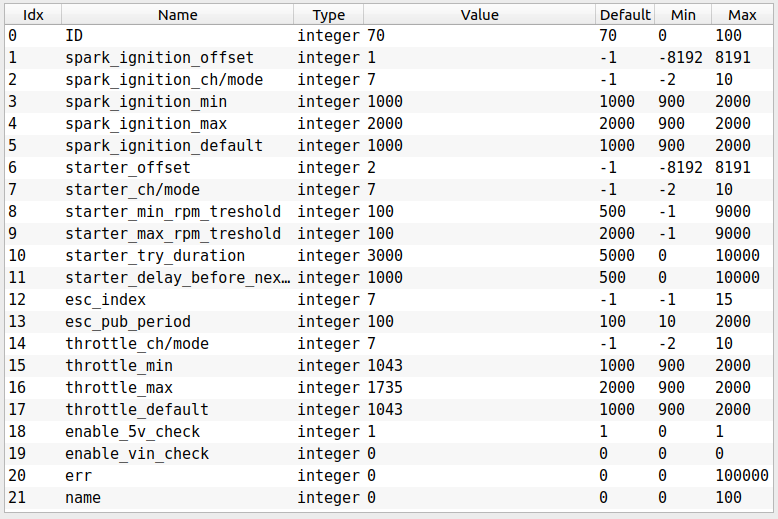
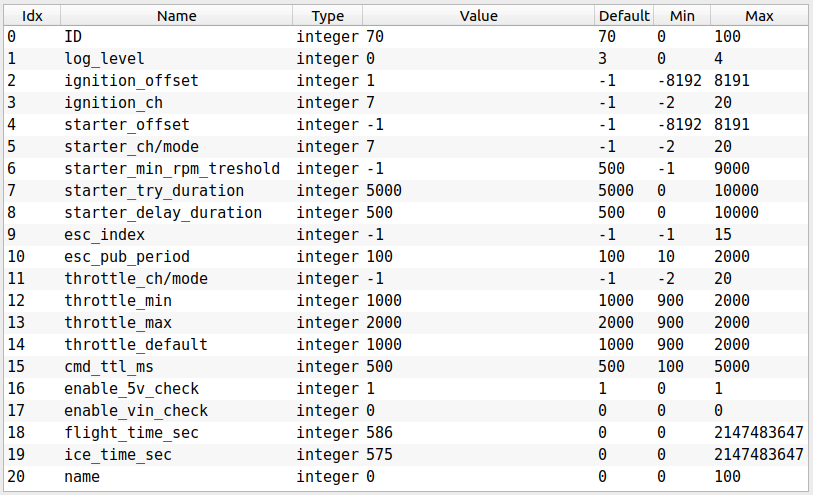
ice: update doc

Changed region(s): [[0.0, 0.0, 1.0, 1.0]]

diff --git a/doc/ice/README.md b/doc/ice/README.md
@@ -13,21 +13,23 @@ Based on input command [RawCommand](https://dronecan.github.io/Specification/7._
   - [3. Wire](#3-wire)
   - [4. Main function description](#4-main-function-description)
     - [4.1. Gas throttle](#41-gas-throttle)
-    - [4.2. Spark Ignition](#42-spark-ignition)
-    - [4.3. Starter](#43-starter)
-    - [4.4. RPM measurement](#44-rpm-measurement)
-    - [4.5. Kill switch](#45-kill-switch)
+    - [4.2. Air throttle](#42-air-throttle)
+    - [4.3. Spark Ignition](#43-spark-ignition)
+    - [4.4. Starter](#44-starter)
+    - [4.5. RPM measurement](#45-rpm-measurement)
+    - [4.6. TTL](#46-ttl)
   - [5. Auxiliary functions description](#5-auxiliary-function-description)
     - [5.1. Circuit status](#51-circuit-status)
     - [5.2. Node info](#52-node-info)
     - [5.3. Log messages](#53-log-messages)
     - [5.4. Watchdog](#54-watchdog)
+    - [5.5. Stats recorder](#55-stats-recorder)
   - [6. Parameters](#6-parameters)
     - [6.1. Common parameters](#61-common-parameters)
     - [6.2. Spark ignition](#62-spark-ignition)
     - [6.3. Starter](#63-starter)
     - [6.4. ESC status](#64-esc-status)
-    - [6.5. Throttle](#65-throttle)
+    - [6.5. Gas throttle](#65-gas-throttle)
     - [6.6. Circuit status](#66-circuit-status)
   - [7. Led indication](#7-led-indication)
   - [8. Debugging on a table](#8-debugging-on-a-table)
@@ -74,8 +76,10 @@ It also has following board-specific connectors:
 | 5 | Fuel tank sensor based on MS4525DO | i2c             |
 | 6 | Starter          | GPIO output pin |
 | 7 | Spark ignition   | GPIO output pin |
-| 8 | Throttle (pin 3) | PWM with frequency 50 Hz and duration from 900 to 2000   |
-| 8 | RPM sensor (pin 6) | Input capture |
+| 8 | Gas throttle | PWM with frequency 50 Hz and duration from 900 to 2000   |
+| 9 | Air throttle | PWM with frequency 50 Hz and duration from 900 to 2000   |
+| 10 | RPM sensor | Input capture |
+| 11 | Temperature sensor | One-wire |
 
 ## 4. Main function description
 
@@ -87,23 +91,35 @@ Internally, the node has a safety mechanism called kill-switch. If the setpoint 
 
 ### 4.1. Gas throttle
 
-Gas throttle is responsible for thrust created by an engine. The output PWM is linearly controlled by RawCommand. The lower and higher borders of duration are defined in corresponding parameters. Check correponded parameters in the section [6.5. Throttle](#65-throttle).
+Gas throttle is responsible for thrust created by an engine. The output PWM is linearly controlled by RawCommand. The lower and higher borders of duration are defined in corresponding parameters. Check correponded parameters in the section [6.5. Gas throttle](#65-gas-throttle).
 
-### 4.2. Spark Ignition
+### 4.2. Air throttle
+
+The main function of the air throttle is to supply and regulate the air flow necessary for the formation of the air-fuel mixture.
+
+Typically, we want a bit less air during the starting the internal combustion engine. It is more fuel costly, but the motor may start easilier. Let's call it the `initial` throttle position.
+
+When the motor is already working, we want to maintain a constant optimal fuel to air ratio. In simpliest case it might be just another throttle value called `goal`.
+
+The idea of the suggested air throttle algorithm is to linearly open the air throttle from the `initial` to the `goal` state for a specific period of time and keep it until the new starter iteration starts.
+
+Although the default `goal` state is specified in parameters, an operator may speficied the actual `goal` value in real time during preflight checks using `ArrayCommand` message with the index specifed in parameters.
+
+### 4.3. Spark Ignition
 
 Spark Ignition allows to enable or disable engine. It is controlled by a simple GPIO output pin that has 2 states. If the value of RawCommand of the corresponding channel is higher than some offset, it will be enabled. Otherwise it will be disabled. Check correponded parameters in the section [6.2. Spark ignition](#62-spark-ignition).
 
-### 4.3. Starter
+### 4.4. Starter
 
 Starter allows to automatically run an engine. It is implemented as GPIO output pin, so it has 2 states. If the input channel value is greater than the offset, it will perform an attempt to run an engine with a duration up to a certain time. If an attempt is unsuccessful, it will turn off for a certain time (to signalize that it's unsuccessful), and then try again. If the median speed for last second is greater than some certain value it will stop attempts. Durations and offsets can be set up in parameters. Check correponded parameters in the section [6.3. Starter](#63-starter)
 
-### 4.4. RPM measurement
+### 4.5. RPM measurement
 
 This sensor is based on hall-sensor. It counts the number of impulses for the last short period of time, filtrate the data, fills the [uavcan.equipment.ice.reciprocating.Status](https://dronecan.github.io/Specification/7._List_of_standard_data_types/#status-4) message and sends it.
 
-### 4.5. Kill switch
+### 4.6. TTL
 
-For the safety reasons, if there is no RawCommand for last 0.5 seconds, the node will set all controlled values to the default states. It means, that that Starter will be turned off, Spark Ignition will be disabled and Gas Throttle will be in the default possition according to the specified in parameters value. 
+For the safety reasons, if there is no RawCommand for last `cmd_ttl_ms` millisecons, the node will set all controlled values to the default states. It means, that that Starter will be turned off, Spark Ignition will be disabled and Gas Throttle will be in the default possition according to the specified in parameters value. 
 
 
 ## 5. Auxiliary functions description
@@ -141,6 +157,15 @@ Every firmware store following info that might be received as a response on Node
 ### 5.4. Watchdog
 
 The node constantly performs updating watchdog values. If update is not happed for at least 0.5 seconds, it cause a hardware reset of microcontoller. This feature allows a node to leave a hang state if it is happend.
+
+### 5.5. Stats recorder
+
+The node automatically stores few parameters into the flash memory. Since writing to the flash is time consuming operation that may affect of performance, the saving request is called only after a short amount of time after disarm.
+
+- `flight_time_sec` parameter keeps overall time during ARM,
+- `ice_time_sec` parameter keeps overall time when internal combustion engine is enabled.
+
+You might be interesting in checking the last paramer to be sure that the lift engine operation time has not expired.
 
 ## 6. Parameters
 
@@ -184,14 +209,14 @@ Following parameters are common for any nodes.
 | 8 | esc_pub_period | false           | Period between EscStatus publication. It has info about starter voltage and current |
 | 9 | esc_index      | false           | Index of corresponded EscStatus message; -1 means disable publication |
 
-### 6.5. Throttle
+### 6.5. Gas throttle
 
 | № | Parameter name   | Reboot required | Description  |
 | - | ---------------- | --------------- | ------------ |
-| 10| throttle_ch      | false           | Index of RawCommand channel; -1 means disable this feature |
-| 11| throttle_min     | false           | PWM duration corresponded to RawCommand=0 |
-| 12| throttle_max     | false           | PWM duration corresponded to RawCommand=8191 |
-| 13| throttle_default | false           | PWM duration corresponded to RawCommand < 0 or when there is no RawCommand for last half second |
+| 10| gas_throttle_ch      | false           | Index of RawCommand channel; -1 means disable this feature |
+| 11| gas_throttle_min     | false           | PWM duration corresponded to RawCommand=0 |
+| 12| gas_throttle_max     | false           | PWM duration corresponded to RawCommand=8191 |
+| 13| gas_throttle_default | false           | PWM duration corresponded to RawCommand < 0 or when there is no RawCommand for last half second |
 
 ### 6.6. Circuit status
 
@@ -200,10 +225,28 @@ Following parameters are common for any nodes.
 | 14| enable_5v_check  | false           | Set ERROR status if 5V voltage is out of range 4.5 - 5.5 V |
 | 15| enable_vin_check | false           | Set ERROR status if Vin voltage is less than 4.5 V |
 
+### 6.7. Motor speed measurement filter
+
+It is expected that motor generates a single PWM impulse each rotation.
+
+The algorithm increments a specific variable each time when an imulse occure.
+
+With frequency specidied in `rpm_measurement_frequency` parameter it calculate a difference between previous and current number of impulses and multiply it by 60 to get the raw value of RPM. The frequency should be at least twice less than idle rotations per second of the motor. For an example, for a motor with IDLE speed 1200 RPM, the parameter might be set to 10 or lower.
+
+Optionally, you can specify `rpm_moving_avg_filter_size` other than 1 to enable moving average filter. This is the easiest, fastest and less memory consumption filter algorithm to make RPM readings smoother. The default value has no effect on readings.
+
 ## 7. Led indication
 
-- when the starter is enabled, led is on
-- when the starter is disabled, led is off
+This board has an internal led that may allow you to understand possible problems. It blinks from 1 to 10 times within 4 seconds. By counting the number of blinks you can define the code of current status.
+
+| Number of blinks | Uavcan health   | Description                     |
+| ---------------- | -------------- | ------------------------------- |
+| 1                | OK             | Everything is ok.                |
+| 2                | OK             | There is no RawCommand at least for the last 0.5 seconds (it's not a problem for this board, just in case). |
+| 3                | WARNING        | This node can't see any other nodes in UAVCAN network, check your cables, or there is no incoming data from the sensor. |
+| 4                | ERROR          | There is a problem with circuit voltage, look at circuit status message to get details. It may happen when you power it from SWD, otherwise, be careful with the power supply. This check might be turned off using params. |
+| 5                | CRITICAL       | There is a problem with the periphery initialization level. Probably you load the wrong firmware. |
+
 
 ## 8. Debugging on a table
 
